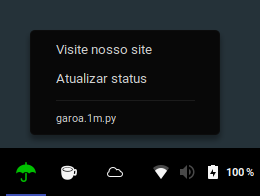
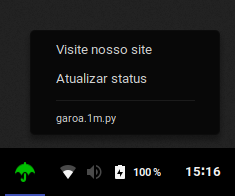
Ícone atualizado para um com licença mais permissiva.

diff --git a/garoa.1m.py b/garoa.1m.py
@@ -1,64 +1,65 @@
 #!/usr/bin/env python3
 
-# Umbrella icon by Icons8: https://icons8.com/icon/389/umbrella
+# Umbrella icon by FontAwesome: https://fontawesome.com/icons/umbrella
+# Creative Commons Attribution 4.0: https://fontawesome.com/license
 
 # <bitbar.title>Garoa Hacker Clube Status</bitbar.title>
-# <bitbar.version>v1.2</bitbar.version>
+# <bitbar.version>v1.3</bitbar.version>
 # <bitbar.author>Fabricio Biazzotto</bitbar.author>
 # <bitbar.author.github>biazzotto</bitbar.author.github>
 # <bitbar.desc>Exibe o status atualizado do Garoa Hacker Clube.</bitbar.desc>
-# <bitbar.image>https://i.imgur.com/FR0EPIs.png</bitbar.image>
-# <bitbar.dependencies>python3,requests,json</bitbar.dependencies>
+# <bitbar.image>https://i.imgur.com/8nFc3VO.png</bitbar.image>
+# <bitbar.dependencies>python3,requests</bitbar.dependencies>
 
 try:
-    from requests import get
+    from requests3 import get
     from requests.exceptions import ConnectionError
 except ModuleNotFoundError:
     print('ERRO')
     print('---')
     print('Clique aqui para instalar <hh>requests</hh>.|bash="sudo python3'
-          ' -m pip install requests" terminal=true refresh=true')
+          ' -m pip install requests&&exit" terminal=true refresh=true')
 
 from json import loads
 
 
[9 lines of base64/hex data omitted]
-       '9Ze7LwGfgVVgyszWJb1LAf4BpclzdLyVffIAAAAASUVORK5CYII='
[9 lines of base64/hex data omitted]
+       'W8BkKyX/A8OHf+qE3/CsAAAAAElFTkSuQmCC'
 
[8 lines of base64/hex data omitted]
-        '7cHgQsiOYl44gS+Su067JYmthD8BML5Xrn1Fjy8AAAAASUVORK5CYII='
[8 lines of base64/hex data omitted]
+        'bMpM4jN+4b2SqW5K/gs/n2H7bpiKpgAAAABJRU5ErkJggg=='
 
[17 lines of base64/hex data omitted]
+      'rZ8wN4cVVgPTiRY2EvOBG0We/BtUr2OKb+a2RgAAAABJRU5ErkJggg=='
 
 try:
     status = loads(get('https://garoahc.appspot.com/status').content)['open']
     if status:
         img = green
     else:
-        img = red
+        img = green
 except ConnectionError:
     img = gray
 

diff --git a/README.md b/README.md
@@ -22,5 +22,5 @@ Caso o botão não funcione, abra este link:
 ### Screenshot:
 ![Screencast](https://raw.githubusercontent.com/biazzotto/garoa-argos-plugin/master/screenshot.png)
 
-#### Ícone utilizado
-[Ícone Umbrella](https://icons8.com/icon/389/umbrella), por [Icons8](https://icons8.com.br).
+### Ícone utilizado
+[Umbrella icon](https://fontawesome.com/icons/umbrella), por [FontAwesome](https://fontawesome.com), sob licença [Creative Commons Attribution 4.0](https://fontawesome.com/license).
